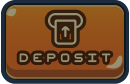
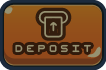
titanium frame

diff --git a/src/games/components/TitaniumFrame.tsx b/src/games/components/TitaniumFrame.tsx
@@ -1,0 +1,44 @@
+import React from "react";
+import { useAppSelector } from "../../app/hooks";
+import "./TitaniumFrame.css";
+import background from "../images/backgrounds/titan_frame.png";
+import { selectResources } from "../../data/automata/resources";
+import {
+  getResourceIconPath,
+  ResourceType,
+  getNumberAbbr,
+} from "../../data/automata/models";
+import DepositButton from "./Buttons/DepositButton";
+import WithdrawButton from "./Buttons/WithdrawButton";
+
+interface Props {
+  onClickWithdraw: () => void;
+  onClickDeposit: () => void;
+}
+
+const TitaniumFrame = ({ onClickWithdraw, onClickDeposit }: Props) => {
+  const titaniumCount = useAppSelector(selectResources(ResourceType.Titanium));
+
+  return (
+    <div className="titanium-frame-container">
+      <img className="titanium-frame-background" src={background} />
+      <div className="titanium-frame-resource-container">
+        <img
+          src={getResourceIconPath(ResourceType.Titanium)}
+          className="titanium-frame-resource-display-image"
+        />
+        <p className="titanium-frame-resource-display-text">
+          {getNumberAbbr(titaniumCount)}
+        </p>
+      </div>
+      <div className="titanium-frame-withdraw">
+        <WithdrawButton onClick={onClickWithdraw} />
+      </div>
+      <div className="titanium-frame-deposit">
+        <DepositButton onClick={onClickDeposit} />
+      </div>
+    </div>
+  );
+};
+
+export default TitaniumFrame;

diff --git a/src/games/components/TitaniumFrame.css b/src/games/components/TitaniumFrame.css
@@ -1,0 +1,68 @@
+.titanium-frame-container{
+    position: absolute;
+    display: flex;
+    top: 27px;
+    left: calc(max(100%, 960px) - 320px);
+    width: 212px;
+    height: 45px;
+    transform: translate(-50%, -50%);
+}
+
+.titanium-frame-background {
+    width: 100%;
+    height: 100%;
+    user-select: none;
+}
+
+.titanium-frame-resource-container {
+    position: absolute;
+    width: 90px;
+    height: 50px;
+    left: 65px;
+    top: 23px;
+    user-select: none;
+    transform: translate(-50%, -50%);
+}
+
+.titanium-frame-resource-display-image {
+    position: absolute;
+    top: 25px;
+    left: 10px;
+    transform: translate(-50%, -50%);
+    width: 35px;
+    height: 35px;
+    user-select: none;
+}
+
+.titanium-frame-resource-display-text {
+    position: absolute;
+    top: 50%;
+    left: 55%;
+    transform: translate(-50%, -50%);
+    font-size: 12px;
+    text-align: center;
+    line-height: 100%;
+    margin: 0px;
+    color: white;
+    width: 35px;
+    height: 12px;
+    font-family: "mishmash";
+    pointer-events: none;
+    user-select: none;
+}
+
+.titanium-frame-withdraw{
+    position: absolute;
+    width: 65px;
+    height: 45px;
+    left: 90px;
+    top: 5px;
+}
+
+.titanium-frame-deposit{
+    position: absolute;
+    width: 65px;
+    height: 45px;
+    left: 145px;
+    top: 5px;
+}

diff --git a/src/games/components/TopMenu.tsx b/src/games/components/TopMenu.tsx
@@ -3,8 +3,6 @@ import "./TopMenu.css";
 import AccountInfo from "./AccountInfo";
 import Resources from "./Resources";
 import Attributes from "./Attributes";
-import WithDrawButton from "./Buttons/WithdrawButton";
-import DepositButton from "./Buttons/DepositButton";
 import {
   selectIsLoading,
   selectIsSelectingUIState,
@@ -12,6 +10,7 @@ import {
   UIState,
 } from "../../data/automata/properties";
 import UpgradeButton from "./Buttons/UpgradeButton";
+import TitaniumFrame from "./TitaniumFrame";
 
 const TopMenu = () => {
   const dispatch = useAppDispatch();
@@ -41,14 +40,12 @@ const TopMenu = () => {
       <div className="top-left"></div>
       <div className="top-middle"></div>
       <div className="top-right"></div>
-      <div className="top-withdraw">
-        <WithDrawButton onClick={onClickWithdraw} />
-      </div>
-      <div className="top-deposit">
-        <DepositButton onClick={onClickDeposit} />
-      </div>
-      <AccountInfo />
+      <TitaniumFrame
+        onClickWithdraw={onClickWithdraw}
+        onClickDeposit={onClickDeposit}
+      />
       <Resources />
+      <AccountInfo />
       <Attributes />
       {!isSelectingUIState && (
         <div className="top-upgrade">

diff --git a/src/games/components/Resources.tsx b/src/games/components/Resources.tsx
@@ -4,18 +4,24 @@ import { useAppSelector } from "../../app/hooks";
 import "./Resources.css";
 
 import { selectResources } from "../../data/automata/resources";
-import { getResourceIconPath, resourceTypes } from "../../data/automata/models";
+import {
+  getResourceIconPath,
+  ResourceType,
+  resourceTypes,
+} from "../../data/automata/models";
 
 const Resources = () => {
   return (
     <div className="top-resources-container">
-      {resourceTypes.map((type, index) => (
-        <ResourceDisplay
-          key={index}
-          iconImagePath={getResourceIconPath(type)}
-          amount={useAppSelector(selectResources(type))}
-        />
-      ))}
+      {resourceTypes
+        .filter((type) => type != ResourceType.Titanium)
+        .map((type, index) => (
+          <ResourceDisplay
+            key={index}
+            iconImagePath={getResourceIconPath(type)}
+            amount={useAppSelector(selectResources(type))}
+          />
+        ))}
     </div>
   );
 };

diff --git a/src/games/components/TopMenu.css b/src/games/components/TopMenu.css
@@ -34,22 +34,6 @@
     background-repeat: repeat-x;
 }
 
-.top-withdraw{
-    position: absolute;
-    width: 65px;
-    height: 45px;
-    left: calc(max(100%, 960px) - 280px);
-    top: 5px;
-}
-
-.top-deposit{
-    position: absolute;
-    width: 65px;
-    height: 45px;
-    left: calc(max(100%, 960px) - 350px);
-    top: 5px;
-}
-
 .top-upgrade{
     position: absolute;
     width: 58px;

diff --git a/src/games/components/Buttons/WithdrawButton.css b/src/games/components/Buttons/WithdrawButton.css
@@ -1,4 +1,4 @@
 .withdraw-button-scale{
-    width: 65px;
-    height: 45px;
+    width: 53px;
+    height: 35px;
 }

diff --git a/src/games/components/Buttons/DepositButton.css b/src/games/components/Buttons/DepositButton.css
@@ -1,4 +1,4 @@
 .deposit-button-scale{
-    width: 65px;
-    height: 45px;
+    width: 53px;
+    height: 35px;
 }
